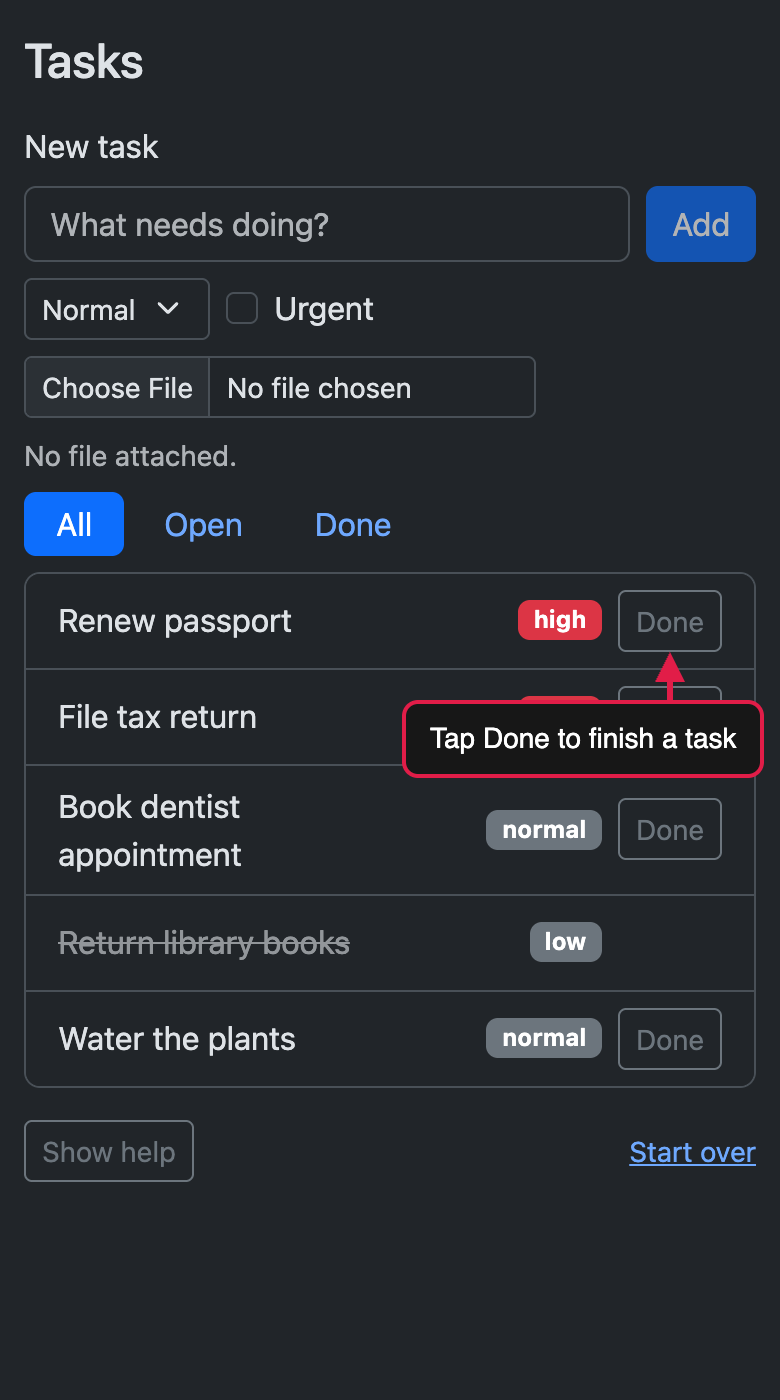
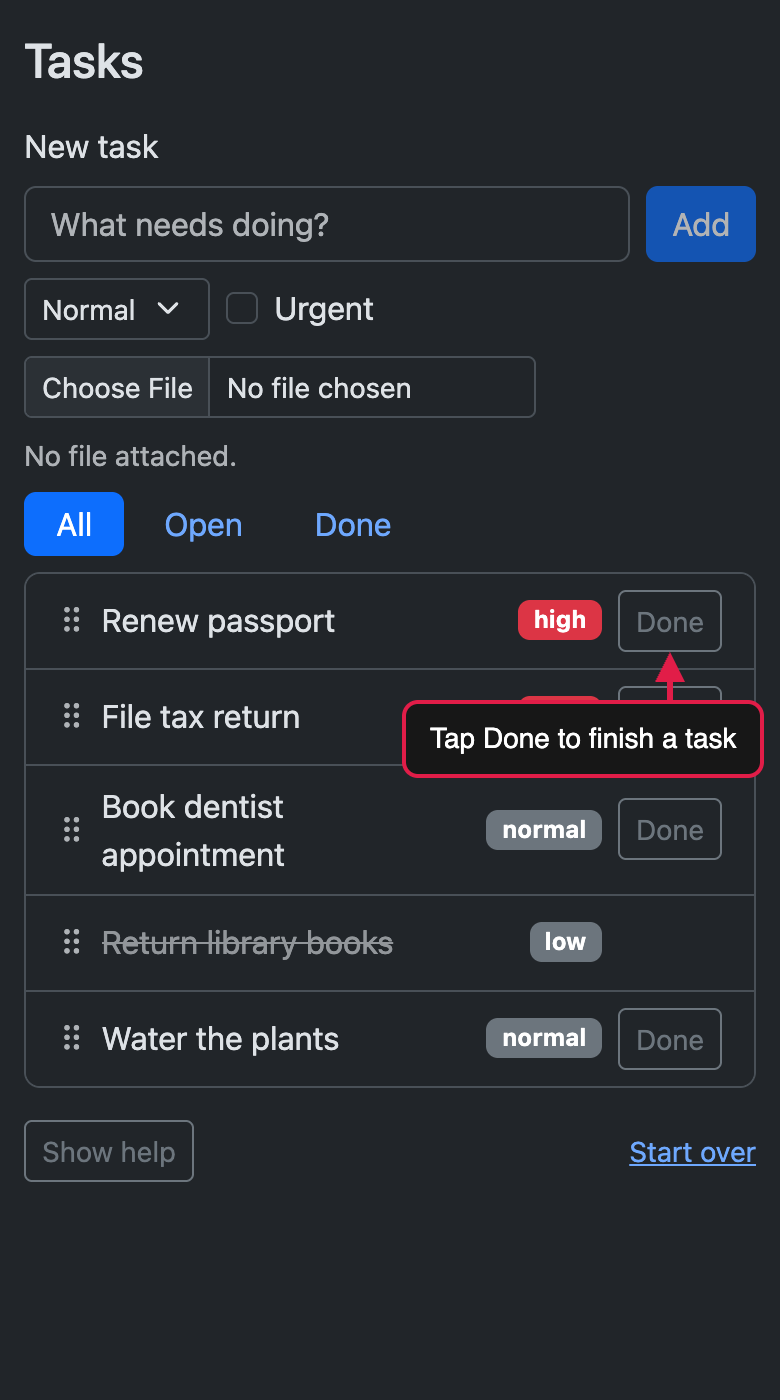
feat(example): add task drag affordances
Kata: f9cy

diff --git a/inst/examples/tasks.html b/inst/examples/tasks.html
@@ -21,12 +21,26 @@
     #attachment { flex: 1 1 10rem; max-width: 16rem; }
     .done .task-title { text-decoration: line-through; opacity: 0.6; }
     .task.done .task-done { visibility: hidden; }
-    .dragging { opacity: 0.4; }
+    .task { cursor: grab; }
+    .task[draggable="false"] { cursor: auto; }
+    .task[draggable="false"] .task-drag-handle { cursor: default; }
+    .task.dragging { opacity: 0.4; }
+    .task-drag-handle {
+      color: var(--bs-secondary-color);
+      cursor: grab;
+      flex: 0 0 auto;
+      font-size: 1.25rem;
+      line-height: 1;
+      user-select: none;
+    }
+    .task-list.dragging,
+    .task-list.dragging .task,
+    .task-list.dragging .task * { cursor: grabbing; }
     .hidden { display: none !important; }
     .task-edit { opacity: 0; }
     .task:hover .task-edit, .task:focus-within .task-edit { opacity: 1; }
     .task-title { overflow-wrap: anywhere; min-width: 0; }
-    .task-title[contenteditable="true"] { outline: 2px solid var(--bs-primary); }
+    .task-title[contenteditable="true"] { cursor: text; outline: 2px solid var(--bs-primary); }
   </style>
 </head>
 <body>
@@ -65,42 +79,49 @@
       <div class="task-list-frame border rounded-3 mb-3">
       <ul class="task-list list-group list-group-flush">
         <li class="task list-group-item d-flex align-items-center gap-2" draggable="true" data-priority="high">
+          <span class="task-drag-handle" aria-hidden="true">⠿</span>
           <div class="flex-grow-1 overflow-hidden"><span class="task-title d-block">Renew passport</span></div>
           <button type="button" class="task-edit btn btn-sm btn-outline-secondary">Edit</button>
           <span class="task-priority badge text-bg-danger">high</span>
           <button type="button" class="task-done btn btn-sm btn-outline-secondary">Done</button>
         </li>
         <li class="task list-group-item d-flex align-items-center gap-2" draggable="true" data-priority="high">
+          <span class="task-drag-handle" aria-hidden="true">⠿</span>
           <div class="flex-grow-1 overflow-hidden"><span class="task-title d-block">File tax return</span></div>
           <button type="button" class="task-edit btn btn-sm btn-outline-secondary">Edit</button>
           <span class="task-priority badge text-bg-danger">high</span>
           <button type="button" class="task-done btn btn-sm btn-outline-secondary">Done</button>
         </li>
         <li class="task list-group-item d-flex align-items-center gap-2" draggable="true" data-priority="normal">
+          <span class="task-drag-handle" aria-hidden="true">⠿</span>
           <div class="flex-grow-1 overflow-hidden"><span class="task-title d-block">Book dentist appointment</span></div>
           <button type="button" class="task-edit btn btn-sm btn-outline-secondary">Edit</button>
           <span class="task-priority badge text-bg-secondary">normal</span>
           <button type="button" class="task-done btn btn-sm btn-outline-secondary">Done</button>
         </li>
         <li class="task done list-group-item d-flex align-items-center gap-2" draggable="true" data-priority="low">
+          <span class="task-drag-handle" aria-hidden="true">⠿</span>
           <div class="flex-grow-1 overflow-hidden"><span class="task-title d-block">Return library books</span></div>
           <button type="button" class="task-edit btn btn-sm btn-outline-secondary">Edit</button>
           <span class="task-priority badge text-bg-secondary">low</span>
           <button type="button" class="task-done btn btn-sm btn-outline-secondary">Done</button>
         </li>
         <li class="task list-group-item d-flex align-items-center gap-2" draggable="true" data-priority="normal">
+          <span class="task-drag-handle" aria-hidden="true">⠿</span>
           <div class="flex-grow-1 overflow-hidden"><span class="task-title d-block">Water the plants</span></div>
           <button type="button" class="task-edit btn btn-sm btn-outline-secondary">Edit</button>
           <span class="task-priority badge text-bg-secondary">normal</span>
           <button type="button" class="task-done btn btn-sm btn-outline-secondary">Done</button>
         </li>
         <li class="task list-group-item d-flex align-items-center gap-2" draggable="true" data-priority="low">
+          <span class="task-drag-handle" aria-hidden="true">⠿</span>
           <div class="flex-grow-1 overflow-hidden"><span class="task-title d-block">Sort out the garage</span></div>
           <button type="button" class="task-edit btn btn-sm btn-outline-secondary">Edit</button>
           <span class="task-priority badge text-bg-secondary">low</span>
           <button type="button" class="task-done btn btn-sm btn-outline-secondary">Done</button>
         </li>
         <li class="task list-group-item d-flex align-items-center gap-2" draggable="true" data-priority="normal">
+          <span class="task-drag-handle" aria-hidden="true">⠿</span>
           <div class="flex-grow-1 overflow-hidden"><span class="task-title d-block">Call the bank</span></div>
           <button type="button" class="task-edit btn btn-sm btn-outline-secondary">Edit</button>
           <span class="task-priority badge text-bg-secondary">normal</span>
@@ -143,6 +164,7 @@
       li.dataset.priority = level;
       ensureId(li);
       li.innerHTML =
+        '<span class="task-drag-handle" aria-hidden="true">⠿</span>' +
         '<div class="flex-grow-1 overflow-hidden"><span class="task-title d-block"></span></div>' +
         '<button type="button" class="task-edit btn btn-sm btn-outline-secondary">Edit</button>' +
         '<span class="task-priority badge"></span>' +
@@ -243,11 +265,13 @@
     list.querySelectorAll(".task").forEach(ensureId);
     list.addEventListener("dragstart", (event) => {
       const li = event.target.closest(".task");
+      list.classList.add("dragging");
       li.classList.add("dragging");
       event.dataTransfer.setData("text/plain", ensureId(li));
       event.dataTransfer.effectAllowed = "move";
     });
     list.addEventListener("dragend", (event) => {
+      list.classList.remove("dragging");
       event.target.closest(".task")?.classList.remove("dragging");
     });
     list.addEventListener("dragover", (event) => event.preventDefault());

diff --git a/README.md b/README.md
@@ -63,41 +63,39 @@ page <- pz_open(
   height = 720,
   color_scheme = "light"
 )
-page |> pz_stage(enter = "bottom", pause = 0.3)
 
-new_task <- pz_loc(".task", has_text = "Prepare release notes")
+task_release <- pz_loc(".task", has_text = "Prepare release notes")
+task_dentist <- pz_loc(".task", has_text = "Book dentist appointment")
 
-pz_record(
-  page,
-  frame = pz_frame(list("h1", ".task-list"), pad = 24, ratio = 16 / 9),
-  format = "gif",
-  scale = 800,
-  code = {
-    page |>
-      pz_annotate_caption("Add a task") |>
-      pz_camera("#new-task", wait = TRUE) |>
-      pz_act_type("Prepare release notes", target = "#task-title") |>
-      pz_act_click("#add-task") |>
-      pz_expect_visible(new_task) |>
-      pz_annotate(new_task, type = "box", pad = 4, id = "new") |>
-      pz_annotate_caption("New tasks go to the top of the list") |>
-      pz_record_hold(1.2) |>
-      pz_camera_reset() |>
-      pz_annotate_clear(id = "new") |>
-      pz_annotate_caption("Drag to reorder") |>
-      pz_act_drag(
-        new_task,
-        to = pz_loc(".task", has_text = "Book dentist appointment")
-      ) |>
-      pz_record_hold(1) |>
-      pz_annotate_caption("Check it off when you're done") |>
-      pz_find(new_task) |>
-      pz_act_click(".task-done") |>
-      pz_expect_class("done") |>
-      pz_cursor_leave() |>
-      pz_record_hold(1)
-  }
-)
+page |>
+  pz_stage(enter = "bottom", pause = 0.3) |>
+  pz_record_start(
+    frame = pz_frame(list("h1", ".task-list"), pad = 24, ratio = 16 / 9),
+    format = "gif",
+    scale = 800
+  ) |>
+  pz_annotate_caption("Add a task") |>
+  pz_camera("#new-task", wait = TRUE) |>
+  pz_act_type("Prepare release notes", target = "#task-title") |>
+  pz_act_click("#add-task") |>
+  pz_expect_visible(task_release) |>
+  pz_annotate(task_release, type = "box", pad = 4, id = "new") |>
+  pz_annotate_caption("New tasks go to the top of the list") |>
+  pz_record_hold(1.2) |>
+  pz_camera_reset() |>
+  pz_annotate_clear(id = "new") |>
+  pz_annotate_caption("Drag to reorder") |>
+  pz_act_drag(
+    pz_loc(".task-drag-handle", within = task_release),
+    to = pz_loc(".task-drag-handle", within = task_dentist)
+  ) |>
+  pz_record_hold(1) |>
+  pz_annotate_caption("Check it off when you're done") |>
+  pz_find(task_release) |>
+  pz_act_click(".task-done") |>
+  pz_expect_class("done") |>
+  pz_cursor_leave() |>
+  pz_record_hold(1)
 
 pz_close(page)
 ```

diff --git a/pkgdown/index.md b/pkgdown/index.md
@@ -63,41 +63,39 @@ page <- pz_open(
   height = 720,
   color_scheme = "light"
 )
-page |> pz_stage(enter = "bottom", pause = 0.3)
 
-new_task <- pz_loc(".task", has_text = "Prepare release notes")
+task_release <- pz_loc(".task", has_text = "Prepare release notes")
+task_dentist <- pz_loc(".task", has_text = "Book dentist appointment")
 
-pz_record(
-  page,
-  frame = pz_frame(list("h1", ".task-list"), pad = 24, ratio = 16 / 9),
-  format = "gif",
-  scale = 800,
-  code = {
-    page |>
-      pz_annotate_caption("Add a task") |>
-      pz_camera("#new-task", wait = TRUE) |>
-      pz_act_type("Prepare release notes", target = "#task-title") |>
-      pz_act_click("#add-task") |>
-      pz_expect_visible(new_task) |>
-      pz_annotate(new_task, type = "box", pad = 4, id = "new") |>
-      pz_annotate_caption("New tasks go to the top of the list") |>
-      pz_record_hold(1.2) |>
-      pz_camera_reset() |>
-      pz_annotate_clear(id = "new") |>
-      pz_annotate_caption("Drag to reorder") |>
-      pz_act_drag(
-        new_task,
-        to = pz_loc(".task", has_text = "Book dentist appointment")
-      ) |>
-      pz_record_hold(1) |>
-      pz_annotate_caption("Check it off when you're done") |>
-      pz_find(new_task) |>
-      pz_act_click(".task-done") |>
-      pz_expect_class("done") |>
-      pz_cursor_leave() |>
-      pz_record_hold(1)
-  }
-)
+page |>
+  pz_stage(enter = "bottom", pause = 0.3) |>
+  pz_record_start(
+    frame = pz_frame(list("h1", ".task-list"), pad = 24, ratio = 16 / 9),
+    format = "gif",
+    scale = 800
+  ) |>
+  pz_annotate_caption("Add a task") |>
+  pz_camera("#new-task", wait = TRUE) |>
+  pz_act_type("Prepare release notes", target = "#task-title") |>
+  pz_act_click("#add-task") |>
+  pz_expect_visible(task_release) |>
+  pz_annotate(task_release, type = "box", pad = 4, id = "new") |>
+  pz_annotate_caption("New tasks go to the top of the list") |>
+  pz_record_hold(1.2) |>
+  pz_camera_reset() |>
+  pz_annotate_clear(id = "new") |>
+  pz_annotate_caption("Drag to reorder") |>
+  pz_act_drag(
+    pz_loc(".task-drag-handle", within = task_release),
+    to = pz_loc(".task-drag-handle", within = task_dentist)
+  ) |>
+  pz_record_hold(1) |>
+  pz_annotate_caption("Check it off when you're done") |>
+  pz_find(task_release) |>
+  pz_act_click(".task-done") |>
+  pz_expect_class("done") |>
+  pz_cursor_leave() |>
+  pz_record_hold(1)
 
 pz_close(page)
 ```
